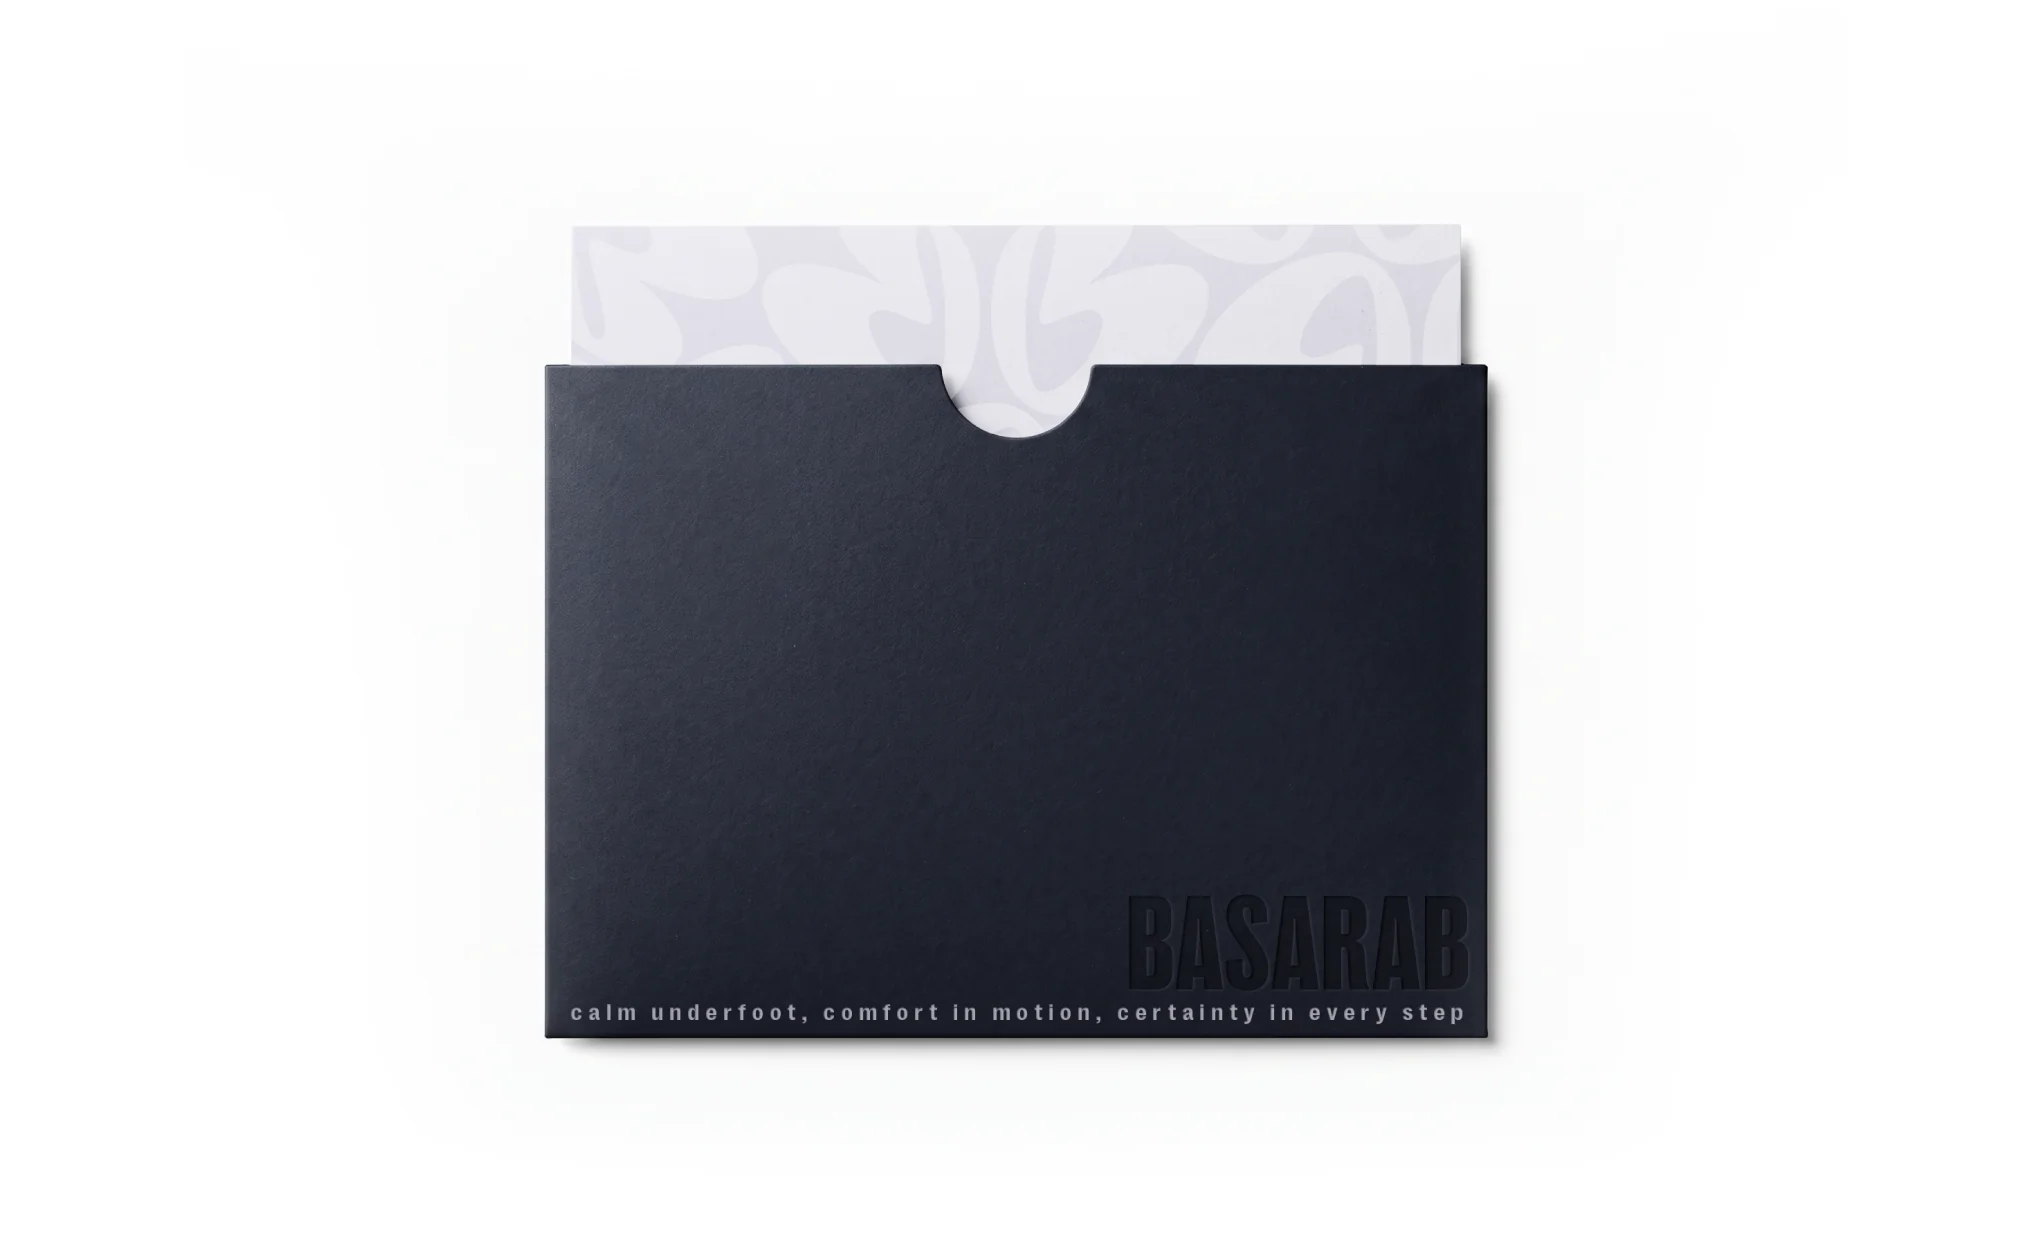
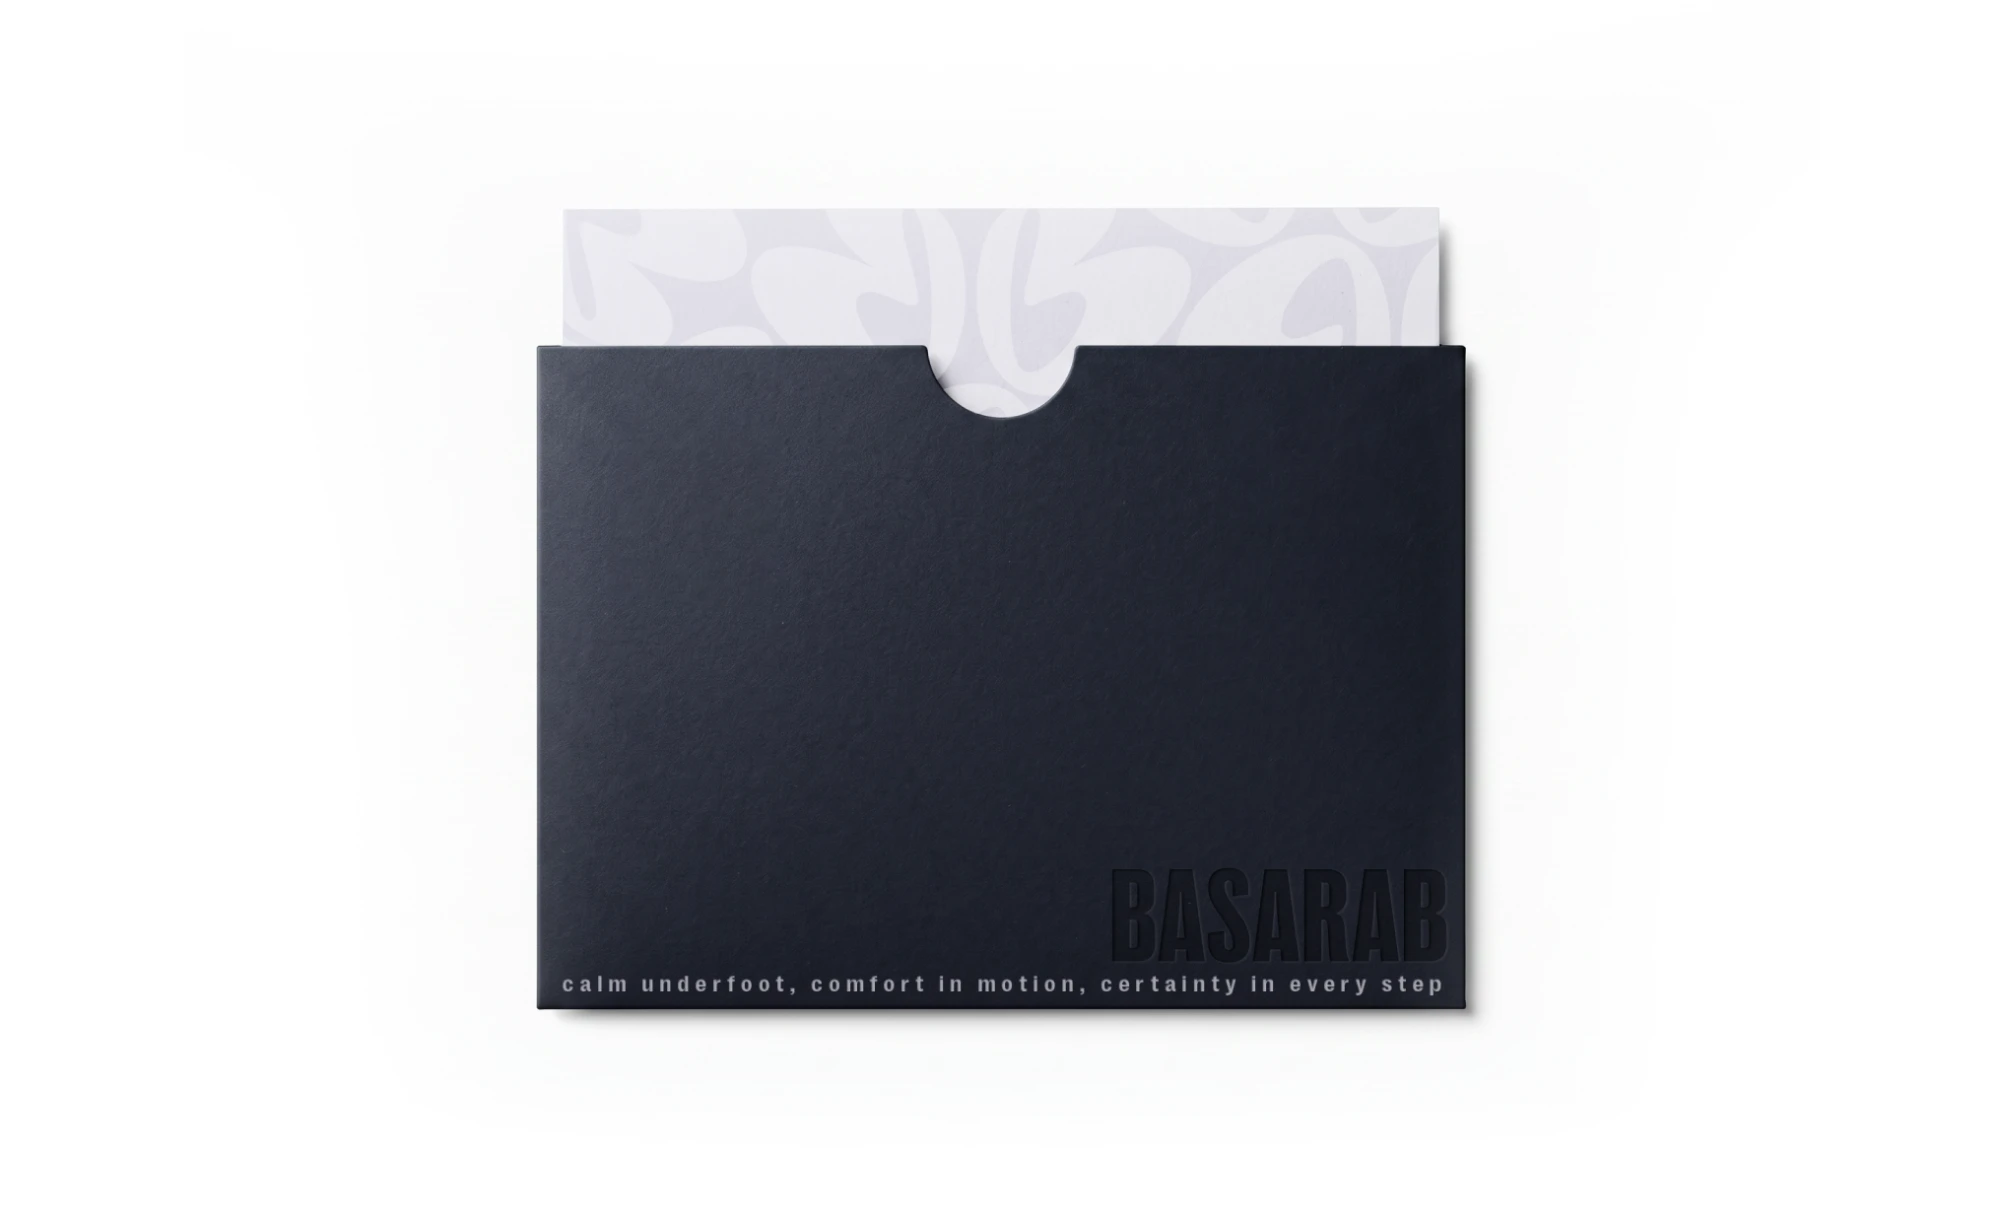
Replace Basarab envelope packaging image (desktop)
Swapped the updated envelope/sleeve mockup for the desktop-only
basarab-28 slot (--mh:21.25rem box/envelope row); mobile crop
(basarab-m24) is unchanged.

Claude-Session: https://claude.ai/code/session_015YGEuQdsMspM8CFCMdMABu

diff --git a/index.html b/index.html
@@ -3191,7 +3191,7 @@ button.project__media-link {
 
     <div class="case__media reveal" style="--mh:14.375rem"><img loading="lazy" src="images/basarab-27.webp?v=2" alt="New collection. Reliable clothes for the everyday. From dawn to dusk." width="2000" height="1253" /><img loading="lazy" class="case__media-mobile" src="images/basarab-m23.webp?v=2" alt="New collection. Reliable clothes for the everyday. From dawn to dusk." width="1077" height="690" /></div>
 
-    <div class="case__media reveal" style="--mh:21.25rem"><img loading="lazy" src="images/basarab-28.webp?v=2" alt="" width="2030" height="1240" /><img loading="lazy" class="case__media-mobile case__media-mobile--contain" src="images/basarab-m24.webp?v=3" alt="" width="1436" height="1360" /></div>
+    <div class="case__media reveal" style="--mh:21.25rem"><img loading="lazy" src="images/basarab-28.webp?v=3" alt="" width="2000" height="1222" /><img loading="lazy" class="case__media-mobile case__media-mobile--contain" src="images/basarab-m24.webp?v=3" alt="" width="1436" height="1360" /></div>
 
     <div class="case__media reveal" style="--mh:14.375rem"><img loading="lazy" src="images/basarab-29.webp?v=2" alt="" width="2032" height="1246" /><img loading="lazy" class="case__media-mobile" src="images/basarab-m25.webp?v=2" alt="" width="1077" height="690" /></div>
 
